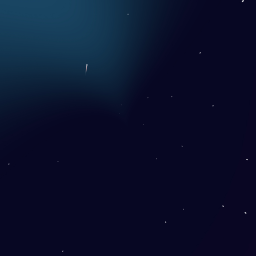
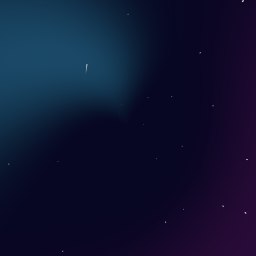
Update 360 background

Changed region(s): [[0.0, 0.2188, 0.4688, 0.5938], [0.75, 0.5312, 1.0, 1.0]]

diff --git a/purru/View/Story/StoryView.swift b/purru/View/Story/StoryView.swift
@@ -54,16 +54,16 @@ struct StoryView: View {
         guard let sceneUrl = Bundle.main.url(forResource: data.sceneName, withExtension: data.sceneExtension) else { fatalError() }
         
         self.scene = try! SCNScene(url: sceneUrl, options: [.checkConsistency: true])
-        //self.scene?.background.contents = UIImage(named: "stars")
         
-        
+        //scene.background.contents = @[@"Right.png", @"Left.png", @"Top.png", @"Bottom.png", @"Back.png", @"Front.png"];
+
         self.scene?.background.contents = [
-            UIImage(named: "pz"),
-            UIImage(named: "nz"),
-            UIImage(named: "py"),
-            UIImage(named: "ny"),
+            UIImage(named: "px"),
             UIImage(named: "nx"),
-            UIImage(named: "px")
+            UIImage(named: "py"),
+            UIImage(named: "nz"),
+            UIImage(named: "ny"),
+            UIImage(named: "pz")
         ]
     }
     
